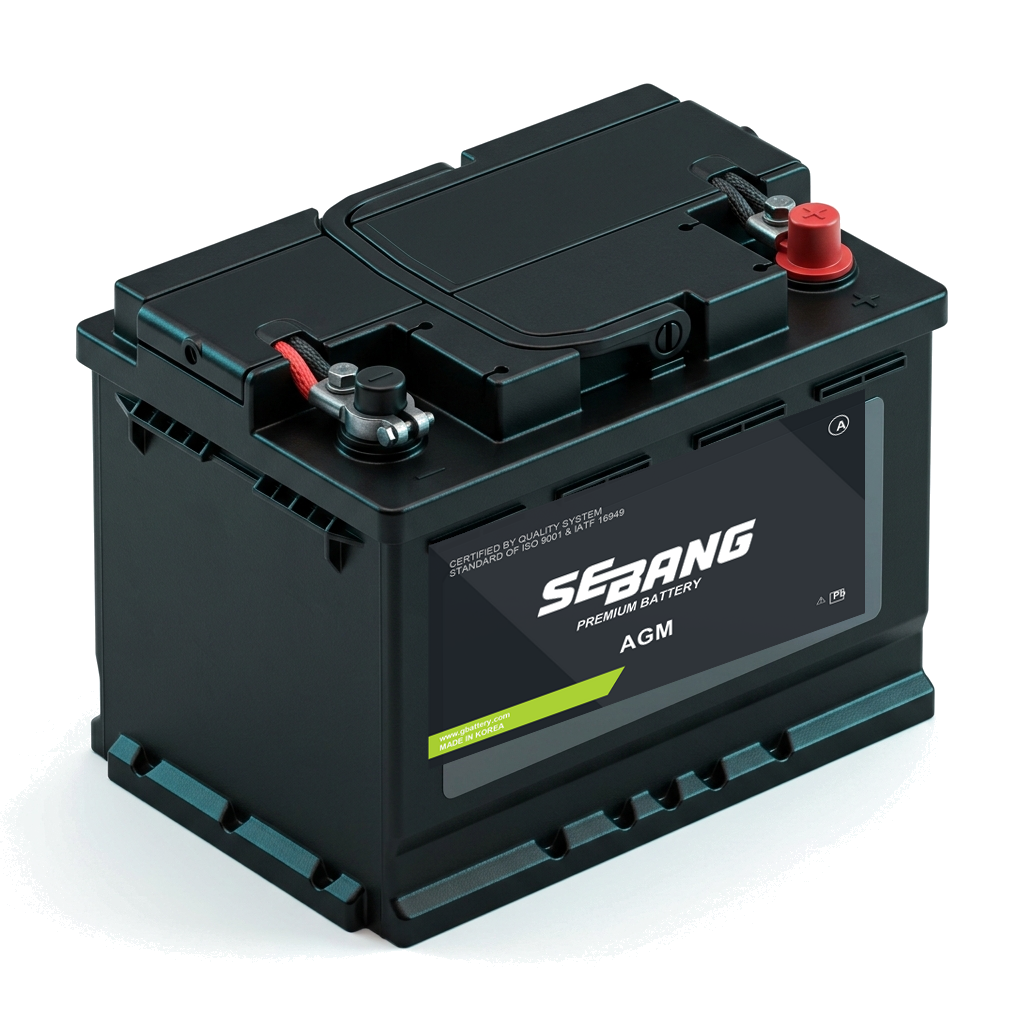
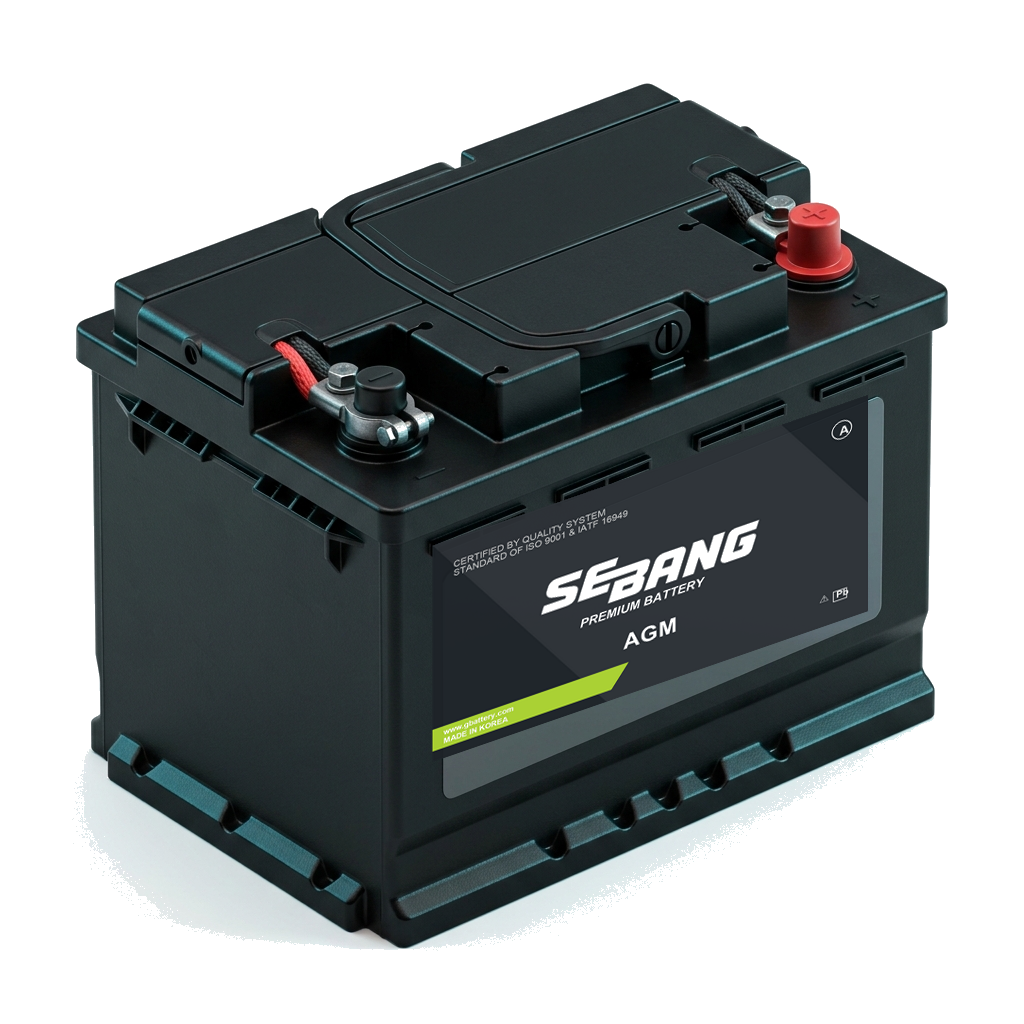
fix: perfectly center the label using meticulously measured coordinates (432,545 -> 868,394) on the isometric battery base

diff --git a/index.html b/index.html
@@ -98,7 +98,7 @@
                 </div>
                 <div class="about-image slide-in-right">
                     <div class="image-wrapper glassmorphism">
-                        <img src="assets/battery_sebang_isometric.png?v=2" alt="Seabang Premium" class="floating">
+                        <img src="assets/battery_sebang_isometric.png?v=3" alt="Seabang Premium" class="floating">
                     </div>
                 </div>
             </div>
@@ -120,7 +120,7 @@
                     <!-- Tüm Aküler -->
                     <a href="#products" class="sebang-card glassmorphism fade-in-up" draggable="false" style="text-decoration:none;">
                         <div class="sebang-img-wrapper">
-                            <img src="assets/battery_sebang_isometric.png?v=2" alt="Tüm Aküler" class="battery-base" style="width: 100%; height: auto;">
+                            <img src="assets/battery_sebang_isometric.png?v=3" alt="Tüm Aküler" class="battery-base" style="width: 100%; height: auto;">
                         </div>
                         <div class="sebang-card-content">
                             <div class="sebang-info">
@@ -134,7 +134,7 @@
                     <!-- Otomotiv -->
                     <a href="#products" class="sebang-card glassmorphism fade-in-up" draggable="false" style="transition-delay: 0.1s; text-decoration:none;">
                         <div class="sebang-img-wrapper">
-                            <img src="assets/battery_sebang_isometric.png?v=2" alt="Otomotiv Aküleri" class="battery-base" style="width: 100%; height: auto;">
+                            <img src="assets/battery_sebang_isometric.png?v=3" alt="Otomotiv Aküleri" class="battery-base" style="width: 100%; height: auto;">
                         </div>
                         <div class="sebang-card-content">
                             <div class="sebang-info">
@@ -148,7 +148,7 @@
                     <!-- Ticari -->
                     <a href="#products" class="sebang-card glassmorphism fade-in-up" draggable="false" style="transition-delay: 0.2s; text-decoration:none;">
                         <div class="sebang-img-wrapper">
-                            <img src="assets/battery_sebang_isometric.png?v=2" alt="Ticari Araç Aküleri" class="battery-base" style="width: 100%; height: auto;">
+                            <img src="assets/battery_sebang_isometric.png?v=3" alt="Ticari Araç Aküleri" class="battery-base" style="width: 100%; height: auto;">
                         </div>
                         <div class="sebang-card-content">
                             <div class="sebang-info">
@@ -162,7 +162,7 @@
                     <!-- Marin ve Karavan -->
                     <a href="#products" class="sebang-card glassmorphism fade-in-up" draggable="false" style="transition-delay: 0.3s; text-decoration:none;">
                         <div class="sebang-img-wrapper">
-                            <img src="assets/battery_sebang_isometric.png?v=2" alt="Marin ve Karavan Aküleri" class="battery-base" style="width: 100%; height: auto;">
+                            <img src="assets/battery_sebang_isometric.png?v=3" alt="Marin ve Karavan Aküleri" class="battery-base" style="width: 100%; height: auto;">
                         </div>
                         <div class="sebang-card-content">
                             <div class="sebang-info">
@@ -176,7 +176,7 @@
                     <!-- Bahçe ve Tarım -->
                     <a href="#products" class="sebang-card glassmorphism fade-in-up" draggable="false" style="transition-delay: 0.4s; text-decoration:none;">
                         <div class="sebang-img-wrapper">
-                            <img src="assets/battery_sebang_isometric.png?v=2" alt="Bahçe ve Tarım Aküleri" class="battery-base" style="width: 100%; height: auto;">
+                            <img src="assets/battery_sebang_isometric.png?v=3" alt="Bahçe ve Tarım Aküleri" class="battery-base" style="width: 100%; height: auto;">
                         </div>
                         <div class="sebang-card-content">
                             <div class="sebang-info">
@@ -190,7 +190,7 @@
                     <!-- Traksiyoner -->
                     <a href="#products" class="sebang-card glassmorphism fade-in-up" draggable="false" style="transition-delay: 0.5s; text-decoration:none;">
                         <div class="sebang-img-wrapper">
-                            <img src="assets/battery_sebang_isometric.png?v=2" alt="Traksiyoner Aküler" class="battery-base" style="width: 100%; height: auto;">
+                            <img src="assets/battery_sebang_isometric.png?v=3" alt="Traksiyoner Aküler" class="battery-base" style="width: 100%; height: auto;">
                         </div>
                         <div class="sebang-card-content">
                             <div class="sebang-info">
@@ -302,7 +302,7 @@
         <div class="container">
             <div class="features-wrapper">
                 <div class="features-image slide-in-left">
-                    <img src="assets/battery_sebang_isometric.png?v=2" alt="Battery Internals">
+                    <img src="assets/battery_sebang_isometric.png?v=3" alt="Battery Internals">
                 </div>
                 <div class="features-content slide-in-right">
                     <h4 class="section-subtitle">Kalitenin Anatomisi</h4>
